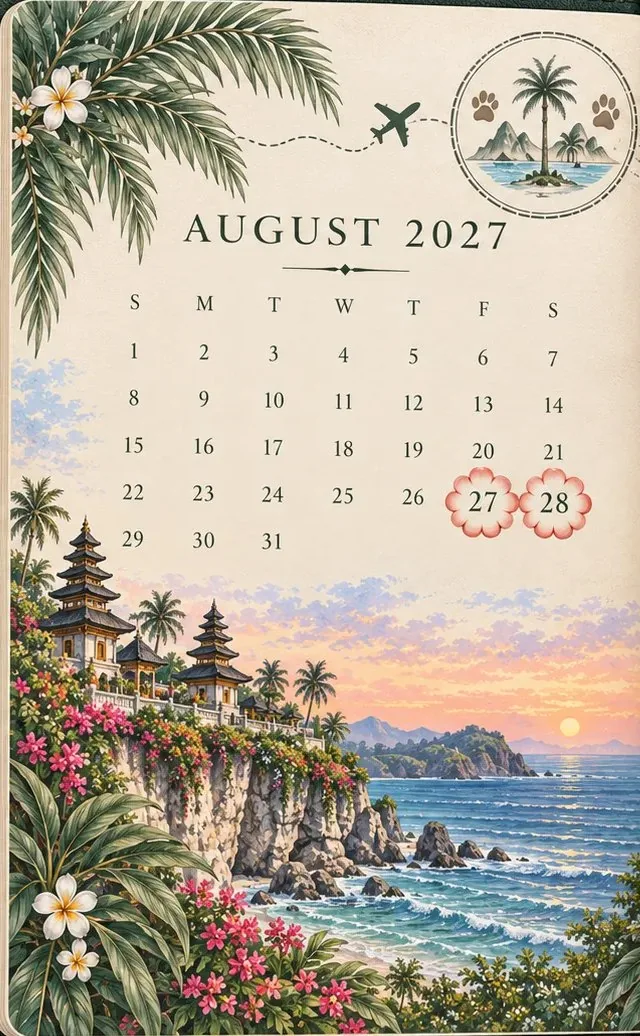
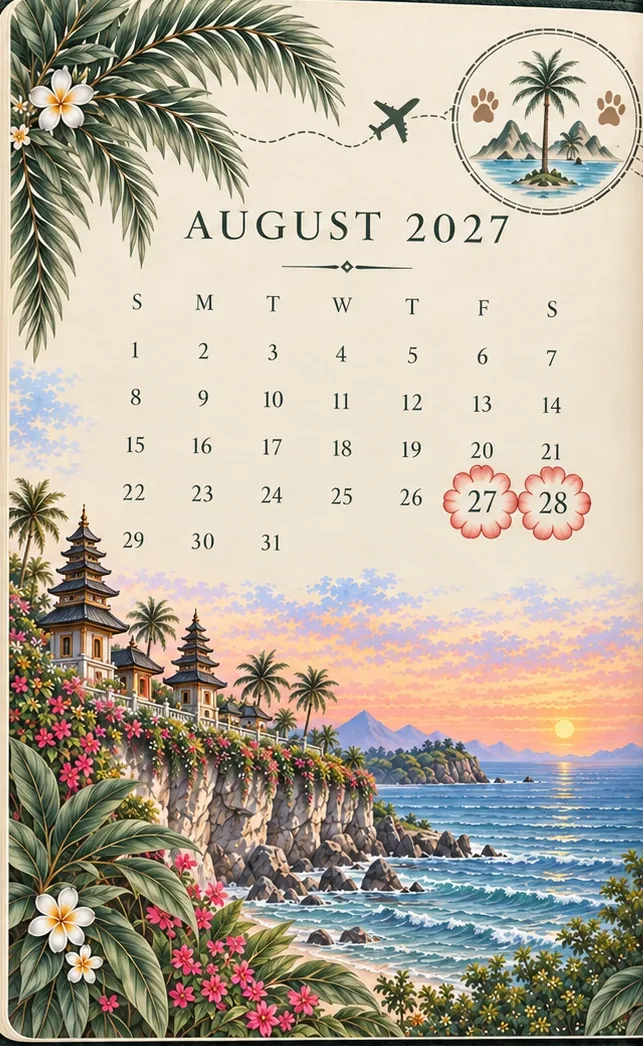
Tea ceremony moves to the welcome party: Friday 6 PM at Rock Bar
New passport spread with the tea ceremony under August 27; the map's
second stop is now August 27, 6:00 PM at Rock Bar and the welcome party
starts at 5:30; the date section, the Friday dress code copy, the FAQ
and the passport description all say so.

Claude-Session: https://claude.ai/code/session_01GqK2ENqeRUwQmtgcSZFd9X

diff --git a/index.html b/index.html
@@ -811,7 +811,7 @@ html.has-lightbox{overflow:hidden}
 
       <!-- Passport -->
       <div class="passport" id="passport">
-        <div class="pp-page pp-art art-itin pp-base" role="img" aria-label="August 27: welcome party at the Rock Bar, AYANA Resort, drinks and dinner with cliffside views. August 28: tea ceremony (optional), wedding ceremony, reception."></div>
+        <div class="pp-page pp-art art-itin pp-base" role="img" aria-label="August 27: welcome party at the Rock Bar from 5:30 PM, with our tea ceremony at 6:00 PM, then drinks and dinner with cliffside views. August 28: wedding ceremony, reception."></div>
         <div class="pp-leaf" data-leaf="1">
           <div class="pp-page leaf-front">
           <div class="pp-head">
@@ -930,7 +930,7 @@ html.has-lightbox{overflow:hidden}
           <div><b id="cdM">—</b><span>min</span></div>
         </div>
       </div>
-      <p class="muted" style="max-width:36ch;margin-left:auto;margin-right:auto">Friday the 27th is the welcome party at Rock Bar. Saturday the 28th is the ceremony and reception on the cliff. Sunday is yours.</p>
+      <p class="muted" style="max-width:36ch;margin-left:auto;margin-right:auto">Friday the 27th is the welcome party at Rock Bar, with our tea ceremony at six. Saturday the 28th is the ceremony and reception on the cliff. Sunday is yours.</p>
     </div>
   </div>
 </section>
@@ -961,12 +961,12 @@ html.has-lightbox{overflow:hidden}
       <div class="mp-ev" id="mev1">
         <img class="mp mp-ill" src="assets/map-e1.webp" style="left:0.25%;top:6.97%;width:50.38%" alt="Cocktails and a lantern on the cliff terrace at Rock Bar, the sun setting over the sea." loading="lazy" decoding="async">
         <span class="mp-badge" style="left:7.43%;top:15.49%">01</span>
-        <div class="mp-text" style="left:3.5%;top:27.2%;width:44%"><b>August 27</b><b>6:00&nbsp;PM</b><i class="mt-rule"></i><strong>Welcome Party</strong><small>at Rock Bar</small></div>
+        <div class="mp-text" style="left:3.5%;top:27.2%;width:44%"><b>August 27</b><b>5:30&nbsp;PM</b><i class="mt-rule"></i><strong>Welcome Party</strong><small>at Rock Bar</small></div>
       </div>
       <div class="mp-ev" id="mev2">
         <img class="mp mp-ill" src="assets/map-e2.webp" style="left:53.15%;top:31.84%;width:32.75%" alt="A red and gold Chinese tea set with cherry blossom." loading="lazy" decoding="async">
         <span class="mp-badge" style="left:56.3%;top:36.67%">02</span>
-        <div class="mp-text" style="left:46%;top:46%;width:42%"><b>August 28</b><b>11:30&nbsp;AM</b><em>(optional)</em><i class="mt-rule"></i><strong>Tea Ceremony</strong></div>
+        <div class="mp-text" style="left:46%;top:46%;width:42%"><b>August 27</b><b>6:00&nbsp;PM</b><i class="mt-rule"></i><strong>Tea Ceremony</strong><small>at Rock Bar</small></div>
       </div>
       <div class="mp-ev" id="mev3">
         <img class="mp mp-ill" src="assets/map-e3.webp" style="left:36.78%;top:54.44%;width:49.12%" alt="A flower-covered arch and white chairs above the ocean at sunset." loading="lazy" decoding="async">
@@ -991,7 +991,7 @@ html.has-lightbox{overflow:hidden}
   <figure class="dress-plate" id="whitePlate">
     <img src="assets/white-plate.webp" srcset="assets/white-plate-m.webp 720w, assets/white-plate.webp 1268w" sizes="min(92vw, 960px)" alt="Welcome party, all white attire. Eight guests in white: linen shirts with shorts or trousers, and white dresses and a jumpsuit. Sunset cocktails, ocean views, great company." width="1268" height="893" loading="lazy" decoding="async">
   </figure>
-  <p class="dress-copy">Join us for sunset cocktails at Rock Bar! We’d love for everyone to wear white — think relaxed, elevated, and beach chic.</p>
+  <p class="dress-copy">Join us for sunset cocktails and our tea ceremony at Rock Bar! We’d love for everyone to wear white — think relaxed, elevated, and beach chic.</p>
   <span class="eyebrow dress-day">Saturday · The wedding</span>
   <figure class="dress-plate" id="dressPlate">
     <img src="assets/dress-plate.webp" srcset="assets/dress-plate-m.webp 720w, assets/dress-plate.webp 1407w" sizes="min(92vw, 960px)" alt="Tropical black tie. Ten guests in colourful formalwear: suits in sage, sky blue, navy, sand and terracotta; gowns in lilac floral, gold, green floral, coral and blush pink. Elevated attire, vibrant hues, destination-friendly." width="1407" height="950" loading="lazy" decoding="async">
@@ -1035,7 +1035,7 @@ html.has-lightbox{overflow:hidden}
     <ol class="fq-list">
       <li class="fq">
         <img class="fq-art" src="assets/faq-plane.webp" alt="A watercolor airliner among soft clouds, with a plumeria below." width="306" height="145" loading="lazy" decoding="async">
-        <div class="fq-body"><h3>When should I fly in?</h3><p>Into Denpasar (DPS), by Friday afternoon for sunset at Rock Bar. It’s a long trip with a connection, so build in the time.</p></div>
+        <div class="fq-body"><h3>When should I fly in?</h3><p>Into Denpasar (DPS), by Friday afternoon for the welcome party and tea ceremony at Rock Bar. It’s a long trip with a connection, so build in the time.</p></div>
       </li>
       <li class="fq">
         <img class="fq-art" src="assets/faq-passport.webp" alt="A dark green passport among tropical leaves and plumeria." width="258" height="165" loading="lazy" decoding="async">
